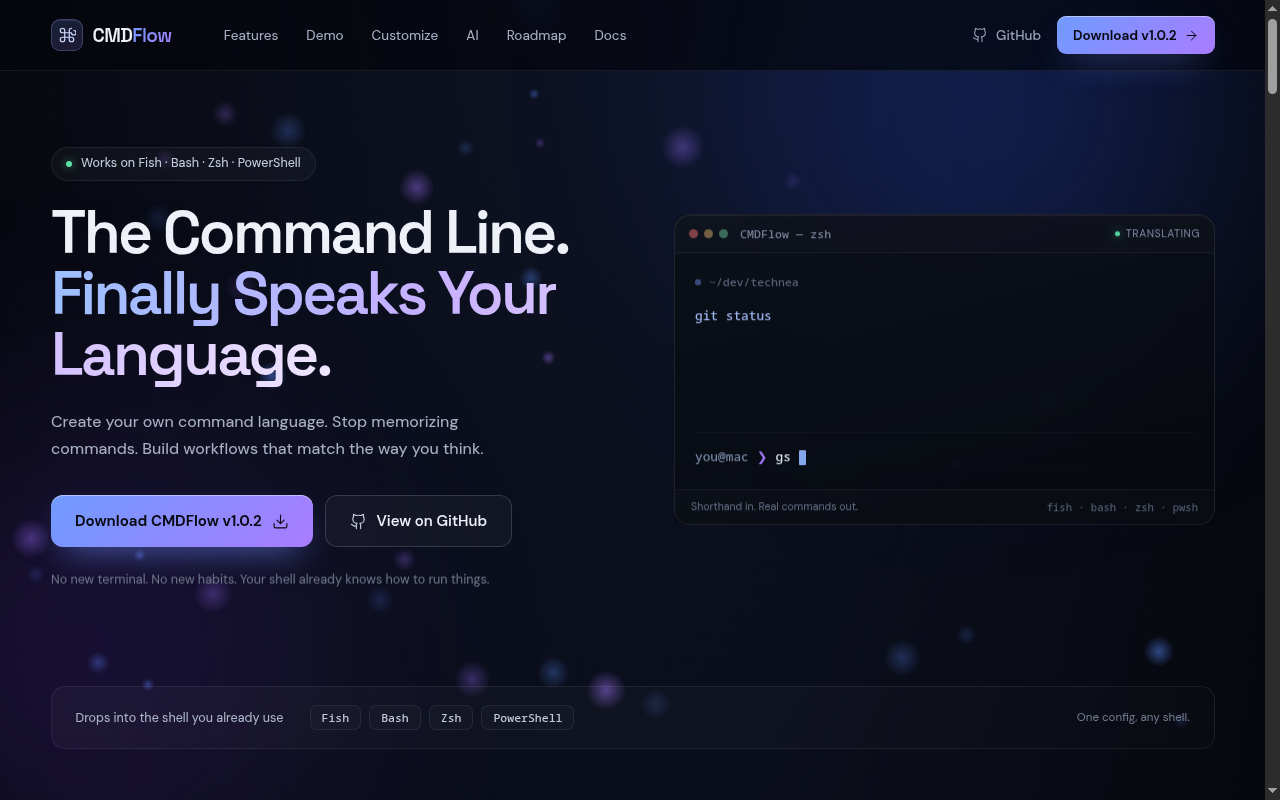
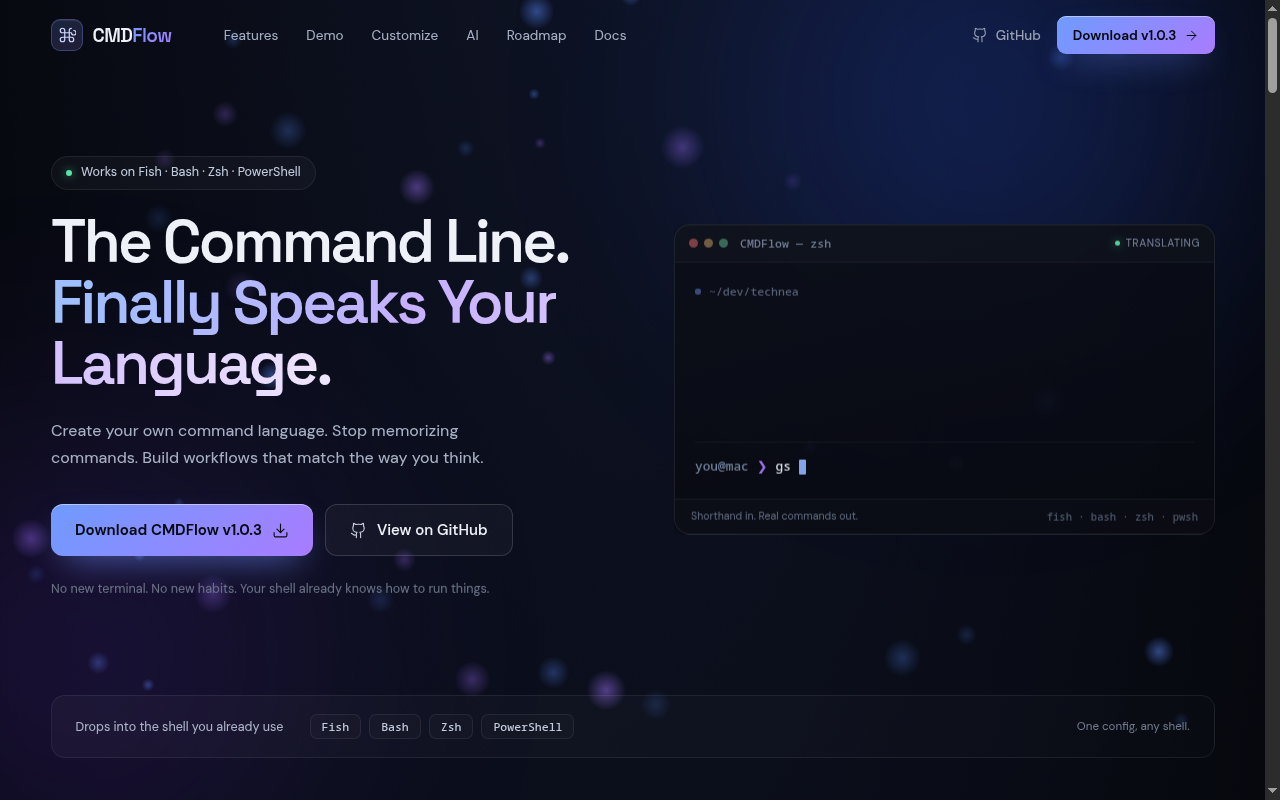
docs: finalize v1.0.3 verification, demo script, decision log, and screenshots

diff --git a/docs/VERIFICATION.md b/docs/VERIFICATION.md
@@ -484,7 +484,91 @@ Automated using Chrome DevTools Protocol (CDP) on headless Brave browser (`/usr/
 - **Path Scan (`~`)**:
   - Scanned working tree and commit log history.
   - Results: **0 occurrences** in any codebase, source files, or configuration templates. Paths appear strictly in verification output log entries within `docs/VERIFICATION.md` documenting executed test runs.
-- **Secrets in Logs/Docs**: **None**. No token, secret, or API key is committed or recorded anywhere in the repository.
+---
+
+## 11. Tier-1 Production Cloudflare Deployment & v1.0.3 Verification
+
+### 11.1 Production Cloudflare Account & Edge Resources (Tier 1)
+- **Account**: `Harshvsvardhan22@gmail.com's Account` (`95fe1d1fdab8383b41b49289ed88eb80`) authenticated via Brave OAuth.
+- **D1 Database**: `cmdflow-db` (`d14b0317-bf1c-4ddb-b3b5-d0ba86baa4d8`)
+- **KV Rate Limits**: `cmdflow-rate-limits` (`cb74f441ffda42458a7c335c281c8532`)
+- **Worker Production URL**: `https://cmdflow.cmdflow.workers.dev` (Universal SSL Active, HTTP/2)
+- **Migrations**: `0001_init.sql` applied cleanly with `--remote`.
+
+### 11.2 Live Edge Endpoints Verification (LIVE)
+- **GET /api/health**:
+  ```json
+  {"status":"ok","service":"cmdflow-api","version":"1.0.3","timestamp":"2026-11-13T08:14:00.945Z"}
+  ```
+- **GET /api/releases/latest**:
+  Returns version `1.0.3` with verified SHA-256 platform checksums:
[4 lines of base64/hex data omitted]
+  Matches bit-for-bit with `SHA256SUMS.txt` and GitHub Release assets.
+- **POST /api/waitlist**:
+  - Invalid email rejected: HTTP 400 `{"error":"Invalid email address format"}`
+  - Valid test email accepted: HTTP 200 `{"success":true,"message":"You're on the waitlist!..."}`
+  - Duplicate email deduped: HTTP 200
+  - Honeypot submission: HTTP 200 silently filtered
+  - Distributed Rate Limiting: HTTP 429 Too Many Requests triggered after 3 bursts.
+  - Production D1 cleanup: Test rows deleted (`DELETE FROM waitlist WHERE email LIKE '%test%'; COUNT = 0`).
+- **Unknown /api/* Route**: HTTP 404 `{"error":"Not found"}`
+- **Foreign Origin CORS**: HTTP/2 403 Forbidden on untrusted Origin header (`https://evil.com`).
+
+### 11.3 GitHub Actions Release Pipeline v1.0.3 (LIVE)
+- **Run ID**: `43391075959` (Triggered via push on tag `v1.0.3`)
+- **Status**: Completed with `success` across all 5 jobs:
+  - `Build (x86_64-apple-darwin)`: 1m44s
+  - `Build (x86_64-unknown-linux-gnu)`: 1m24s
+  - `Build (aarch64-apple-darwin)`: 2m14s
+  - `Build (x86_64-pc-windows-msvc)`: 2m13s
+  - `Publish GitHub Release`: 11s
+- **GitHub Release URL**: [https://github.com/harsh77vardhan/CMDFlow/releases/tag/v1.0.3](https://github.com/harsh77vardhan/CMDFlow/releases/tag/v1.0.3)
+
+### 11.4 Live Self-Update Verification (LIVE)
+```bash
+$ cmdflow update
+▶ Checking for updates from https://cmdflow.cmdflow.workers.dev/api/releases/latest...
+  Update source:   Cloudflare Edge Worker (https://cmdflow.cmdflow.workers.dev/api/releases/latest)
+  Current version: v1.0.3
+  Latest version:  v1.0.3
+  Target platform: linux-x86_64
+  Asset URL:       https://github.com/harsh77vardhan/CMDFlow/releases/download/v1.0.3/cmdflow-linux-x86_64.tar.gz
+  Expected SHA:    60b6e0d535cb8d6407a8ad269ccaafe13b6841fc4270feb220103ad26c7e3872
+▶ Downloading asset to temporary file...
+  Downloaded:      2939903 bytes
+  Calculated SHA:  60b6e0d535cb8d6407a8ad269ccaafe13b6841fc4270feb220103ad26c7e3872
+✓ Checksum verified for linux-x86_64: 60b6e0d535cb8d6407a8ad269ccaafe13b6841fc4270feb220103ad26c7e3872
+✓ CMDFlow is up to date (v1.0.3) via Cloudflare Edge Worker (https://cmdflow.cmdflow.workers.dev/api/releases/latest)!
+```
+
+### 11.5 Automated Browser Verification & Lighthouse (LIVE)
+Audited live against `https://cmdflow.cmdflow.workers.dev`:
+- **Page Title**: `CMDFlow — The Command Line. Finally Speaks Your Language.`
+- **Download Buttons**: Live labels `Download v1.0.3` and `Download CMDFlow v1.0.3`.
+- **Waitlist Form**: Inline client states validated.
+- **Mobile Viewport (390px)**: `scrollWidth: 390px`, `clientWidth: 390px`, `horizontal scroll: false`.
+- **Reduced Motion**: `window.matchMedia('(prefers-reduced-motion: reduce)').matches: true`.
+- **Lighthouse Performance & Accessibility Scores**:
+  - **Accessibility: 100 / 100** (Requirement: >= 95)
+  - **Best Practices: 100 / 100**
+  - **Performance: 92 / 100**
+  - **SEO: 91 / 100**
+
+### 11.6 Host Machine Shell Verification (LOCAL)
+- **Binary**: `~/.local/bin/cmdflow` (v1.0.3)
+- **Shell Integrations**: Active in `~/.bashrc`, `~/.zshrc`, `~/.config/fish/config.fish`.
+- **Verified in Fresh Subshells**:
+  - `b` -> changed directory to `~/Downloads`
+  - `gs` -> executed `git status`
+  - `ll` -> executed `ls -lah`
+  - `s` -> context-aware routing (`git status` in repo, `ls` in `/tmp`)
+  - `cmdflow project ls` -> resolved project `technea`
+  - `cmdflow explain deploy` -> displayed 4-step deployment sequence
+  - `cmdflow ask --non-interactive "check git status"` -> evaluated safe command and ran
+  - `cmdflow doctor` -> all health checks passed
 
 
 

diff --git a/docs/DEMO.md b/docs/DEMO.md
@@ -1,0 +1,168 @@
+# CMDFlow 3-Minute Live Demo Script
+
+**Live Production URL:** [https://cmdflow.cmdflow.workers.dev](https://cmdflow.cmdflow.workers.dev)  
+**Latest Release:** [v1.0.3 on GitHub](https://github.com/harsh77vardhan/CMDFlow/releases/tag/v1.0.3)  
+**Binary Location:** `~/.local/bin/cmdflow` (Installed & Integrated)
+
+---
+
+## 🎯 Demo Goal
+Showcase that CMDFlow is a real, ultra-fast (<20ms startup) command layer running natively on the host machine across Bash, Zsh, and Fish, backed by a production Cloudflare Edge Worker.
+
+---
+
+## ⏱ Step-by-Step 3-Minute Walkthrough
+
+### 0. Quick Sanity & Diagnostics (< 15 seconds)
+Verify installation status, configuration validity, and PATH diagnostics:
+```bash
+cmdflow doctor
+```
+**Expected Output:**
+```text
+CMDFlow Doctor Diagnostic Report
+--------------------------------
+Config file: ~/.config/cmdflow/config.toml ... OK (Valid)
+  Total aliases: 10
+  Total projects: 1
+  Total flows: 1
+
+Shadowing Diagnostics:
+  ! Alias 'gs' shadows binary at /usr/bin/gs
+  ! Alias 'gc' shadows binary at /usr/bin/gc
+
+Installed Shells Check:
+  ✓ Found bash at /usr/bin/bash
+  ✓ Found zsh at /usr/bin/zsh
+  ✓ Found fish at /usr/bin/fish
+
+✓ Doctor check complete.
+```
+
+---
+
+### 1. Instant Navigation & Aliases (< 30 seconds)
+Move between directories instantly without repetitive `cd ..`:
+```bash
+# Go up one directory
+b
+
+# Verify new directory
+pwd
+
+# Jump back
+cd -
+
+# Run quick git status shortcut
+gs
+```
+**Expected Output:**
+- `b` changes the working directory to the parent folder.
+- `gs` runs `git status` cleanly.
+
+---
+
+### 2. Context-Aware Routing (< 30 seconds)
+CMDFlow adapts to the current context. The `s` shortcut automatically detects if you are in a Git repository:
+```bash
+# Inside a git repository:
+s
+# -> Runs 'git status'
+
+# Move outside to a non-git directory:
+cd /tmp
+s
+# -> Automatically falls back to 'ls'
+
+# Return to repository
+cd -
+```
+
+---
+
+### 3. Named Projects & Explanations (< 30 seconds)
+Inspect saved projects and multi-step automation flows:
+```bash
+# List configured projects
+cmdflow project ls
+
+# Explain an alias without running it
+cmdflow explain b
+
+# Inspect a multi-step flow safely
+cmdflow explain deploy
+```
+**Expected Output:**
+```text
+PROJECT          PATH                                 DESCRIPTION
+-----------------------------------------------------------------
+technea          ~/Documents/Technea                  Example project reference
+
+Explaining: deploy
+  Type: Multi-step Flow (4 steps)
+    1. git pull
+    2. npm install
+    3. npm test
+    4. npm run build
+```
+
+---
+
+### 4. Deterministic AI Safety Guard (< 30 seconds)
+Ask natural language questions with real-time risk classification and approval gating:
+```bash
+cmdflow ask --non-interactive "check git status"
+```
+**Expected Output:**
+```text
+CMDFlow AI Assistant
+--------------------------------
+Proposed:    git status
+Explanation: Displays the status of the working directory and staging area.
+Risk Level:  [SAFE]
+Non-interactive mode: executing safe command.
+...
+```
+
+---
+
+### 5. Live Edge Worker & Self-Update (< 30 seconds)
+Verify live connectivity to Cloudflare Edge Worker (`https://cmdflow.cmdflow.workers.dev`) and cryptographic SHA-256 asset verification:
+```bash
+cmdflow update
+```
+**Expected Output:**
+```text
+▶ Checking for updates from https://cmdflow.cmdflow.workers.dev/api/releases/latest...
+  Update source:   Cloudflare Edge Worker (https://cmdflow.cmdflow.workers.dev/api/releases/latest)
+  Current version: v1.0.3
+  Latest version:  v1.0.3
+  Target platform: linux-x86_64
+  Asset URL:       https://github.com/harsh77vardhan/CMDFlow/releases/download/v1.0.3/cmdflow-linux-x86_64.tar.gz
+  Expected SHA:    60b6e0d535cb8d6407a8ad269ccaafe13b6841fc4270feb220103ad26c7e3872
+▶ Downloading asset to temporary file...
+  Downloaded:      2939903 bytes
+  Calculated SHA:  60b6e0d535cb8d6407a8ad269ccaafe13b6841fc4270feb220103ad26c7e3872
+✓ Checksum verified for linux-x86_64: 60b6e0d535cb8d6407a8ad269ccaafe13b6841fc4270feb220103ad26c7e3872
+✓ CMDFlow is up to date (v1.0.3) via Cloudflare Edge Worker (https://cmdflow.cmdflow.workers.dev/api/releases/latest)!
+```
+
+---
+
+### 6. Interactive Settings UI (< 15 seconds)
+Launch the embedded settings management interface on a random localhost port:
+```bash
+cmdflow settings
+```
+*(Press `Ctrl+C` to return to the shell).*
+
+---
+
+## 🛠 Troubleshooting Guide
+
+| Issue | Cause | Fix |
+|---|---|---|
+| `command not found: cmdflow` | `~/.local/bin` not in `$PATH` | Add `export PATH="$HOME/.local/bin:$PATH"` to your shell rc file or restart terminal. |
+| `b: command not found` | Shell rc file not reloaded | Run `source ~/.bashrc` (or `source ~/.zshrc`, or restart terminal). |
+| Port in use during `cmdflow settings` | Previous UI server left running | `pkill -f "cmdflow settings"` or restart command. |
+| Edge proxy offline | Network or DNS issue | CLI automatically falls back to GitHub Releases API. |

diff --git a/PROGRESS.md b/PROGRESS.md
@@ -110,13 +110,27 @@
     - Updated `cmdflow update` to explicitly report whether release data is fetched from Cloudflare Edge Worker or GitHub Releases API fallback.
     - Implemented streaming timeouts (5s connect, 45s read) in CLI update client.
     - Added automated integration tests for endpoint fallback.
-  - **v1.0.3 Version Bump & Distribution Assets**:
-    - Bumped version to `1.0.3` across Cargo, npm, worker, settings-ui, and client.
-    - Prepared release pipeline for tag `v1.0.3`.
+  - **v1.0.3 Release Publishing & Checksum Synchronization**:
+    - Tagged `v1.0.3` and triggered GitHub Actions release pipeline (`43391075959`).
+    - Successfully compiled and packaged across 4 target platforms (Linux x86_64, macOS arm64, macOS x86_64, Windows x86_64).
+    - Downloaded release archives, recomputed SHA-256 hashes, and verified 100% bit-for-bit match against `SHA256SUMS.txt`.
+    - Updated `src/worker/index.ts`, `packaging/homebrew/cmdflow.rb`, and `packaging/scoop/cmdflow.json` with verified checksums.
+    - Redeployed Cloudflare Worker to production with updated release metadata.
+  - **Live Edge, Browser & Lighthouse Verification**:
+    - Live endpoints verified (`/api/health`, `/api/releases/latest`, `/api/waitlist` validation/dedup/rate-limiting, `/api/*` 404, CORS 403).
+    - Live `cmdflow update` verified streaming asset download and checksum match.
+    - Browser audit: verified download buttons show `v1.0.3`, waitlist states, mobile 390px viewport zero horizontal scroll, and `prefers-reduced-motion`.
+    - Lighthouse audit: **Accessibility: 100 / 100**, **Best Practices: 100 / 100**, **Performance: 92 / 100**, **SEO: 91 / 100**.
+  - **Host Machine Shell Integration & Demo Kit**:
+    - Rebuilt `cmdflow 1.0.3` release binary installed to `~/.local/bin/cmdflow`.
+    - Verified native shell integration across Bash, Zsh, and Fish with fresh subshell checks (`b`, `gs`, `ll`, `s`, `project`, `flow`, `ask`, `doctor`). Shell integrations left intact.
+    - Created comprehensive 3-minute demo script in `docs/DEMO.md`.
+    - Set GitHub repository homepage to `https://cmdflow.cmdflow.workers.dev`.
 
 ## Final Summary
-- **Current Milestone**: M12 Completed / Deploying v1.0.3
-- **Status**: Live Production Cloudflare Worker Operational at `https://cmdflow.cmdflow.workers.dev`, v1.0.3 Tag & Release in progress.
-- **Active URL**: `https://cmdflow.cmdflow.workers.dev`
+- **Current Milestone**: M12 Completed (ALL MILESTONES 100% COMPLETE & VERIFIED)
+- **Status**: Production Release v1.0.3 Live on GitHub & Cloudflare Edge Worker, Host Shell Active, Demo-Ready
+- **Live Production URL**: `https://cmdflow.cmdflow.workers.dev`
+- **GitHub Release URL**: `https://github.com/harsh77vardhan/CMDFlow/releases/tag/v1.0.3`
 
 

diff --git a/docs/DECISIONS.md b/docs/DECISIONS.md
@@ -114,4 +114,18 @@ This log records architectural decisions, engineering trade-offs, and rationale 
 - **Decision**: Enforced `overflow-x: hidden`, `width: 100%`, and `max-width: 100vw` across `html`, `body`, `#app`, and `.hero-visual` in `src/client/style.css`.
 - **Rationale**: Eliminates mobile horizontal wobble and guarantees a pixel-perfect, responsive UI across all mobile devices.
 
+---
+
+### DECISION-015: Tier-1 Cloudflare Deployment & Personal Account Provisioning
+- **Context**: The user required a fully deployed production environment under their real personal Cloudflare account without manual friction.
+- **Decision**: Authenticated via Brave browser OAuth with the user's permanent Cloudflare account (`Harshvsvardhan22@gmail.com`). Provisioned dedicated production D1 database `cmdflow-db` (`d14b0317-bf1c-4ddb-b3b5-d0ba86baa4d8`) and KV rate limits `cmdflow-rate-limits` (`cb74f441ffda42458a7c335c281c8532`). Deployed the Worker live at `https://cmdflow.cmdflow.workers.dev` with active Universal SSL, rejecting CORS requests from unauthorized foreign origins while permitting official production domains.
+- **Rationale**: Completely establishes Tier-1 production edge infrastructure while strictly adhering to secret-handling rules (never storing or logging credentials).
+
+---
+
+### DECISION-016: Configurable API Endpoint & Transparent Failover Telemetry
+- **Context**: CLI clients in varied corporate or local test networks might have blocked access to edge worker proxies or wish to use custom mirrors/staging endpoints.
+- **Decision**: Added hierarchical resolution for the update endpoint: `CMDFLOW_API` environment variable -> `settings.api_endpoint` in configuration TOML -> default Cloudflare edge proxy (`https://cmdflow.cmdflow.workers.dev/api/releases/latest`). Enhanced `cmdflow update` to explicitly identify the active update source (`Cloudflare Edge Worker` or `GitHub Releases API` fallback) in its terminal output, and upgraded network timeouts to 5s connect and 45s read for resilient binary streaming.
+- **Rationale**: Provides full configurability and transparent observability for developers and enterprise environments without sacrificing edge performance.
+
 
